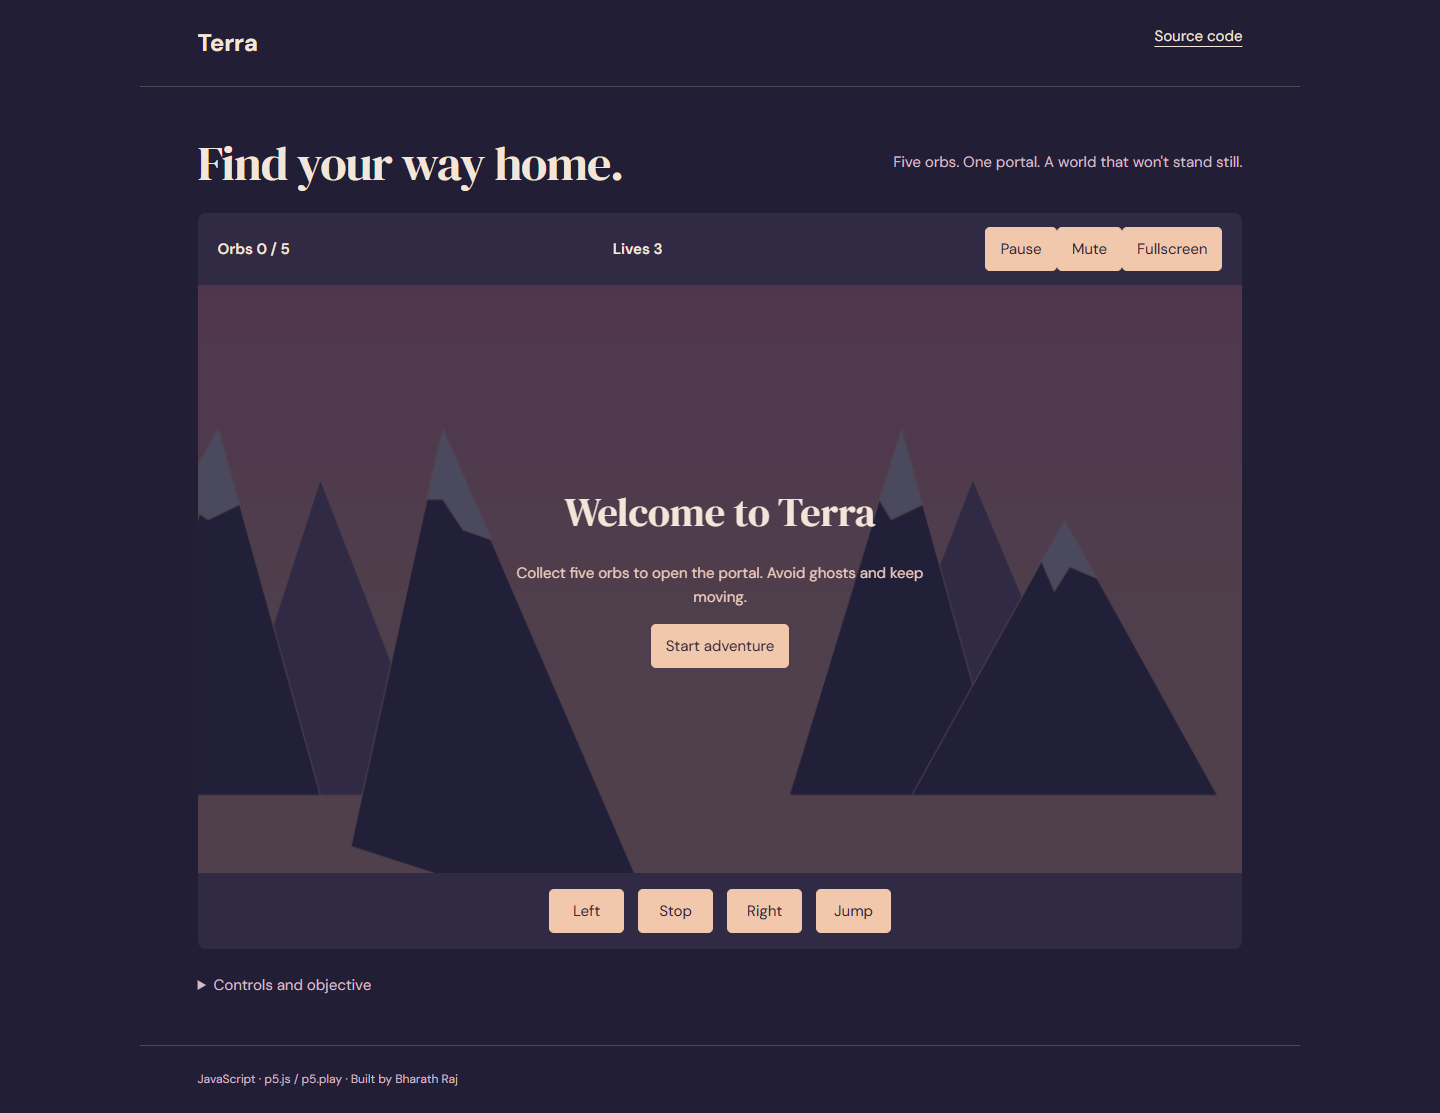
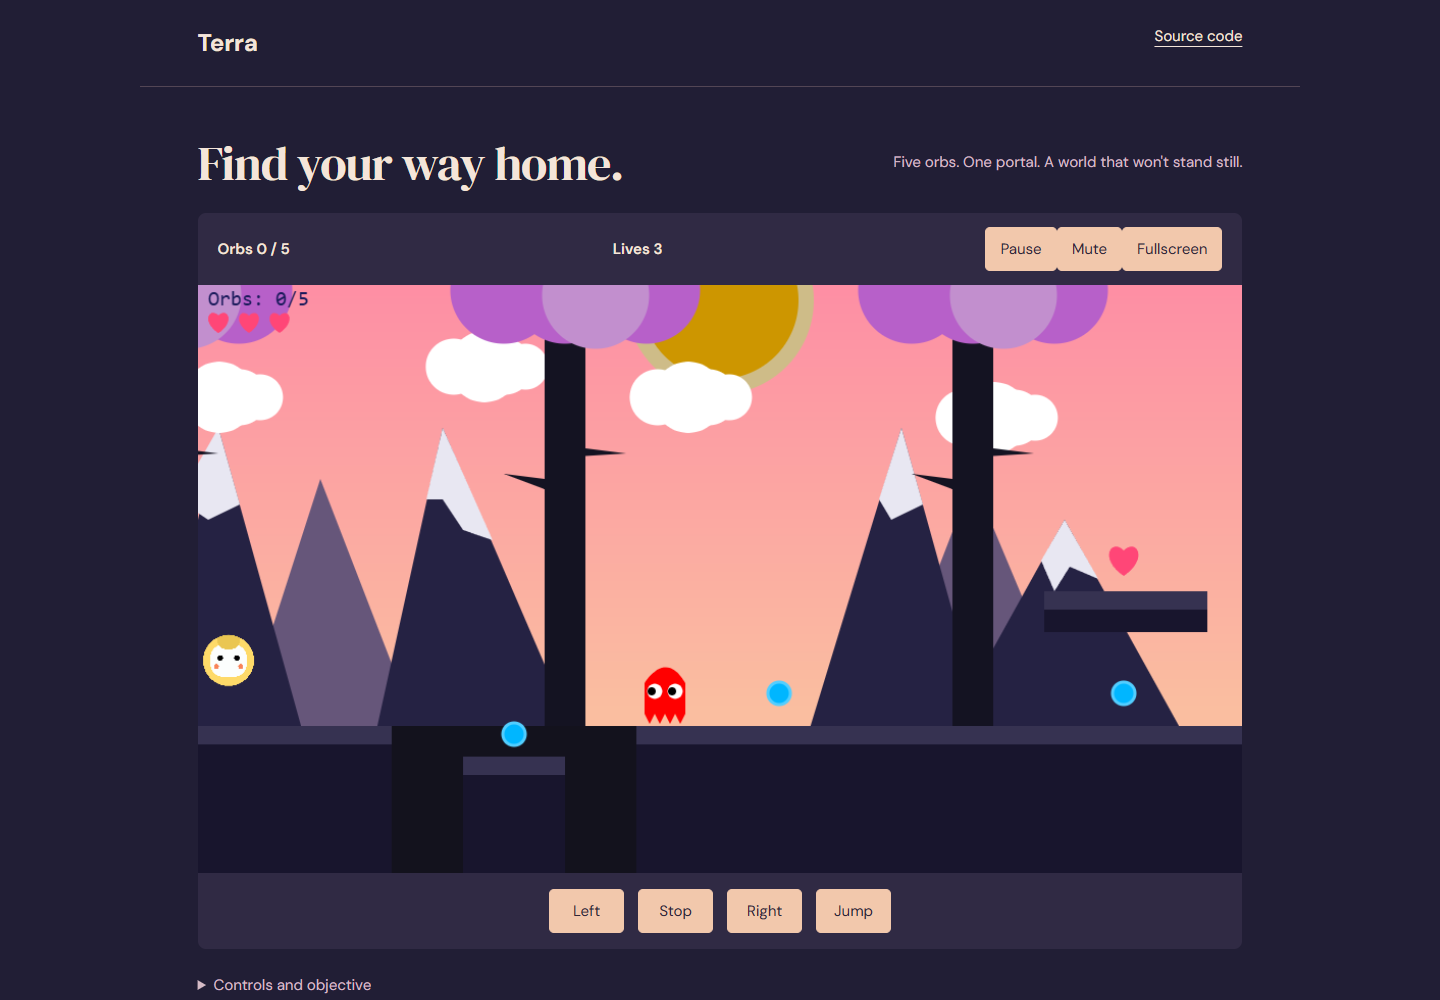
Keep player rendering and collision at original 50x50 size

diff --git a/sketch.js b/sketch.js
@@ -615,8 +615,15 @@ function initGame(){
     ///////////////////////////////////////////// PLAYER + GHOST CREATION ////////////////////////////////////////////////////////////////
 
     player = createSprite(90, height - 210, playerx, playery);
-    playerImage.resize(50, 50);
-    player.addImage(playerImage);
+    // Keep the original 50x50 world footprint independent of the image's
+    // intrinsic dimensions, load timing, pixel density, and sprite animation.
+    player.setCollider('rectangle', 0, 0, playerx, playery);
+    player.draw = function () {
+        push();
+        imageMode(CENTER);
+        image(playerImage, 0, 0, playerx, playery);
+        pop();
+    };
     player.maxSpeed = 10;
 
     // Create Ghost instances with constraints

diff --git a/README.md b/README.md
@@ -38,6 +38,11 @@ One level; desktop-first movement. Automated completion checks force state trans
 
 ## Validation
 
+The player uses the supplied original 50 × 50 world-unit size. Drawing dimensions
+and the rectangular collider are explicit, so a full-size or late-loaded bitmap
+cannot enlarge the character. Browser checks cover launch, restart, resizing,
+late bitmap replacement and device pixel ratios 1 and 2.
+
 Edge checks cover launch, freezing sprite positions during pause, game-over/completion screens, restart with three lives and five orbs, mute and phone layout. Source audio buffers loaded successfully. Hardware listening and a complete human playthrough remain.
 
 ## Third-party attribution
